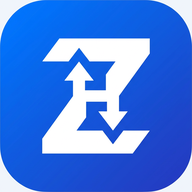
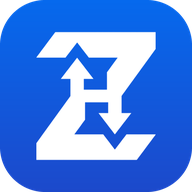
v29.7.2 — شروع یکپارچه روی اندروید: maskable تمامصفحه بدون باکس سفید + بَج اصلی در صفحهٔ لود و لوگوها

diff --git a/index.html b/index.html
@@ -33,7 +33,7 @@
   #bootSplash.done{opacity:0;pointer-events:none}
   #bootSplash::before{content:'';position:absolute;width:360px;height:360px;border-radius:50%;background:radial-gradient(circle,rgba(37,99,235,.38),rgba(37,99,235,0) 70%);animation:bsGlow 2.2s ease-in-out infinite}
   #bootSplash>*{position:relative}
-  #bootSplash svg{animation:bsPop .55s cubic-bezier(.2,.9,.3,1.25) both;filter:drop-shadow(0 10px 26px rgba(37,99,235,.45))}
+  #bootSplash .bs-logo{display:block;animation:bsPop .55s cubic-bezier(.2,.9,.3,1.25) both;filter:drop-shadow(0 10px 26px rgba(37,99,235,.45))}
   #bootSplash .bs-name{font-size:28px;font-weight:800;letter-spacing:.2px;animation:bsUp .5s .08s ease both}
   #bootSplash .bs-tag{font-size:13px;opacity:.72;animation:bsUp .5s .16s ease both}
   #bootSplash .bs-bar{width:136px;height:3px;border-radius:99px;background:rgba(232,238,250,.16);margin-top:16px;overflow:hidden;animation:bsUp .5s .24s ease both}
@@ -48,7 +48,7 @@
 </head>
 <body>
   <div id="bootSplash" role="status" aria-label="Z Lift">
-    <svg viewBox="0 0 32 32" width="72" height="72" aria-hidden="true"><rect width="32" height="32" rx="8" fill="#2563eb"/><path d="M10 8h12l-8 7h8L10 24l4-7h-6z" fill="#fff"/></svg>
+    <img class="bs-logo" src="icons/splash-logo.png" width="72" height="72" alt="" aria-hidden="true" fetchpriority="high" />
     <div class="bs-name">Z Lift</div>
     <div class="bs-tag">دستیار حرفهای تکنسین آسانسور</div>
     <div class="bs-bar" aria-hidden="true"><i></i></div>
@@ -60,7 +60,7 @@
     <div class="auth-card">
       <div class="auth-logo">
         <div class="logo-badge">
-          <svg viewBox="0 0 32 32" width="34" height="34"><rect width="32" height="32" rx="8" fill="var(--accent)"/><path d="M10 8h12l-8 7h8L10 24l4-7h-6z" fill="#fff"/></svg>
+          <img src="icons/splash-logo.png" width="34" height="34" alt="" aria-hidden="true" />
         </div>
         <h1>Z Lift</h1>
         <p data-i18n="tagline">دستیار حرفهای تکنسین آسانسور</p>
@@ -98,7 +98,7 @@
     <aside class="sidebar" id="sidebar">
       <div class="sidebar-head">
         <div class="logo-badge sm">
-          <svg viewBox="0 0 32 32" width="26" height="26"><rect width="32" height="32" rx="8" fill="var(--accent)"/><path d="M10 8h12l-8 7h8L10 24l4-7h-6z" fill="#fff"/></svg>
+          <img src="icons/splash-logo.png" width="26" height="26" alt="" aria-hidden="true" />
         </div>
         <div class="logo-text">
           <strong>Z Lift</strong>

diff --git a/qa/platform.js b/qa/platform.js
@@ -411,7 +411,7 @@ const storedPw = (A, u) => A.ev(`(_lsDB.users.find(x => x.username === '${u}') |
     const man = JSON.parse(readSrc('manifest.json'));
     const sizes = new Set((man.icons || []).map(i => i.sizes));
     const maskable = (man.icons || []).some(i => String(i.purpose || '').includes('maskable'));
-    const missing = (man.icons || []).map(i => i.src).filter(s => !fs.existsSync(path.join(ROOT, s)) || fs.statSync(path.join(ROOT, s)).size === 0);
+    const missing = (man.icons || []).map(i => String(i.src || '').split('?')[0]).filter(s => !fs.existsSync(path.join(ROOT, s)) || fs.statSync(path.join(ROOT, s)).size === 0);
     const ok = !!man.name && !!man.short_name && man.display === 'standalone' && man.start_url &&
       sizes.has('192x192') && sizes.has('512x512') && maskable && !missing.length;
     return ok ? OK('manifest installable, icons present')

diff --git a/sw.js b/sw.js
@@ -7,7 +7,7 @@
      (defensive only: Z Lift has no backend today — all data is local; this branch
      exists so a future optional sync endpoint keeps working offline)
    Bump CACHE on every release so old shells are evicted. */
-const CACHE = 'zlift-pwa-v45';
+const CACHE = 'zlift-pwa-v46';
 const CORE = [
   './',
   './index.html',
@@ -60,7 +60,8 @@ const CORE = [
   './js/components/jdate-picker.js',
   './icons/icon-192.png',
   './icons/icon-512.png',
-  './icons/maskable-512.png'
+  './icons/maskable-512.png',
+  './icons/splash-logo.png'
 ];
 const NAV_TIMEOUT = 4000;
 

diff --git a/js/core/app-core.js b/js/core/app-core.js
@@ -1,8 +1,8 @@
 /* ================= VERSION SINGLE SOURCE OF TRUTH ================= */
-var APP_VERSION = '29.7.1';
+var APP_VERSION = '29.7.2';
 var DB_SCHEMA_VERSION = 3;
 var BACKUP_FORMAT_VERSION = 8;
-var CACHE_VERSION = 'zlift-pwa-v45';
+var CACHE_VERSION = 'zlift-pwa-v46';
 /* Display badge shown on Settings / about */
 var APP_BUILD = '2026-10-30';
 

diff --git a/qa/build-icons.py b/qa/build-icons.py
@@ -1,0 +1,138 @@
+#!/usr/bin/env python3
+"""
+build-icons.py — regenerates every app icon from the master badge artwork.
+
+Source of truth: icons/src-badge-512.png (512x512: blue rounded badge with the
+white Z-arrows glyph, on an opaque off-white canvas — the original export).
+
+Why this exists: the shipped maskable icon used to be that same export pasted
+inset on a white canvas, so Android's own PWA launch screen (generated by
+Chrome from the manifest BEFORE any web code runs) showed the badge floating
+in an ugly white box. A real maskable icon must be full-bleed with the key
+glyph inside the central safe zone. The "any" icons also carried opaque
+off-white corners instead of transparency.
+
+Outputs (all derived from the one master, so every surface matches):
+  icons/maskable-512.png  full-bleed badge-blue gradient + glyph @ safe size
+  icons/icon-512.png      rounded badge, transparent corners (purpose: any)
+  icons/icon-192.png      same, 192px (also apple-touch-icon)
+  icons/splash-logo.png   216px badge used by the in-page boot splash, so the
+                          Chrome launch screen and our loading page show the
+                          SAME logo and read as one continuous screen
+
+Run:  python3 qa/build-icons.py     (needs Pillow; not part of npm/CI)
+After regenerating, bump the ?v= on manifest icon srcs + the SW cache so
+installed WebAPKs actually refetch the new artwork.
+"""
+from PIL import Image, ImageDraw
+import os
+
+ROOT = os.path.join(os.path.dirname(os.path.abspath(__file__)), '..')
+SRC = os.path.join(ROOT, 'icons', 'src-badge-512.png')
+SS = 4  # supersample factor for smooth masks
+
+
+def rounded_mask(size, radius):
+    """Anti-aliased rounded-rect alpha mask (L mode)."""
+    big = Image.new('L', (size * SS, size * SS), 0)
+    d = ImageDraw.Draw(big)
+    d.rounded_rectangle([0, 0, size * SS - 1, size * SS - 1], radius=radius * SS, fill=255)
+    return big.resize((size, size), Image.LANCZOS)
+
+
+def vertical_gradient(size, top, bottom):
+    grad = Image.new('RGB', (1, size))
+    for y in range(size):
+        t = y / (size - 1)
+        grad.putpixel((0, y), tuple(round(top[i] + (bottom[i] - top[i]) * t) for i in range(3)))
+    return grad.resize((size, size))
+
+
+def main():
+    src = Image.open(SRC).convert('RGB')
+    W = src.size[0]
+    assert src.size == (512, 512), src.size
+
+    # Badge blues sampled from the master (top / bottom of the badge face).
+    top_blue = src.getpixel((W // 2, int(W * 0.06)))
+    bot_blue = src.getpixel((W // 2, int(W * 0.95)))
+    print('badge gradient:', top_blue, '->', bot_blue)
+
+    # --- extract the white glyph as an alpha layer -------------------------
+    # Whiteness = min(r,g,b): badge blue is ~10, glyph is 255, the off-white
+    # corner fill is ~240 — so confine extraction to the badge's rounded
+    # shape (inset a touch) to keep the corners out.
+    px = src.load()
+    alpha = Image.new('L', (W, W), 0)
+    ap = alpha.load()
+    for y in range(W):
+        for x in range(W):
+            m = min(px[x, y])
+            a = (m - 40) / (235 - 40)
+            ap[x, y] = 0 if a <= 0 else 255 if a >= 1 else int(a * 255)
+    badge_area = rounded_mask(W, int(W * 0.235))
+    # shrink the allowed area slightly so badge-edge anti-aliasing stays out
+    inner = Image.new('L', (W, W), 0)
+    inset = 10
+    inner.paste(badge_area.crop((inset, inset, W - inset, W - inset)).resize((W - 2 * inset, W - 2 * inset)), (inset, inset))
+    alpha = Image.composite(alpha, Image.new('L', (W, W), 0), inner)
+
+    # The badge's own anti-aliased rim against the off-white canvas is ALSO
+    # near-white, so whiteness alone leaks a rim ghost. Keep only the white
+    # component connected to the image centre (the glyph), dilated a couple
+    # of px so the glyph's own soft edge ramp survives.
+    from PIL import ImageFilter
+    whiteish = [[min(px[x, y]) >= 170 for x in range(W)] for y in range(W)]
+    seen = [[False] * W for _ in range(W)]
+    stack = [(W // 2, W // 2)]
+    seen[W // 2][W // 2] = True
+    comp = Image.new('L', (W, W), 0)
+    cp = comp.load()
+    while stack:
+        x, y = stack.pop()
+        cp[x, y] = 255
+        for nx, ny in ((x + 1, y), (x - 1, y), (x, y + 1), (x, y - 1)):
+            if 0 <= nx < W and 0 <= ny < W and not seen[ny][nx] and whiteish[ny][nx]:
+                seen[ny][nx] = True
+                stack.append((nx, ny))
+    allowed = comp.filter(ImageFilter.MaxFilter(5))
+    alpha = Image.composite(alpha, Image.new('L', (W, W), 0), allowed)
+
+    bbox = alpha.point(lambda v: 255 if v > 127 else 0).getbbox()
+    glyph = Image.new('RGBA', (W, W), (255, 255, 255, 0))
+    glyph.putalpha(alpha)
+    glyph = glyph.crop(bbox)
+    gw, gh = glyph.size
+    print(f'glyph bbox in master: {gw}x{gh} ({gw / W:.0%} x {gh / W:.0%})')
+
+    def compose(glyph_width):
+        """Full-bleed gradient + centered glyph at the given px width."""
+        canvas = vertical_gradient(W, top_blue, bot_blue).convert('RGBA')
+        scale = glyph_width / gw
+        g = glyph.resize((glyph_width, round(gh * scale)), Image.LANCZOS)
+        canvas.alpha_composite(g, ((W - g.size[0]) // 2, (W - g.size[1]) // 2))
+        return canvas
+
+    def save(img, name):
+        path = os.path.join(ROOT, 'icons', name)
+        img.save(path, optimize=True)
+        print('wrote', path, img.size, f'{os.path.getsize(path) // 1024}KB')
+
+    # --- maskable: glyph tips must survive even a circular system mask ----
+    # Keep the Z's corner tips inside the 80%-diameter safe circle:
+    # half-diag of the glyph bbox <= 40% of canvas. 296px wide does it.
+    save(compose(296), 'maskable-512.png')
+
+    # --- "any" badge: fuller glyph, rounded corners, real transparency ----
+    badge = compose(318)
+    badge.putalpha(rounded_mask(W, int(W * 0.235)))
+    save(badge, 'icon-512.png')
+    save(badge.resize((192, 192), Image.LANCZOS), 'icon-192.png')
+
+    # --- boot-splash logo: the 72px badge at 3x ----------------------------
+    save(badge.resize((216, 216), Image.LANCZOS), 'splash-logo.png')
+    print('ICONS DONE')
+
+
+if __name__ == '__main__':
+    main()

diff --git a/CHANGELOG.md b/CHANGELOG.md
@@ -2,6 +2,13 @@
 
 قالب این سند از [Keep a Changelog](https://keepachangelog.com) پیروی میکند؛ تازهترین نسخه در بالاست.
 
+## [29.7.2] — 2026-10-30 — شروع یکپارچه روی اندروید
+
+- آیکون maskable تمامصفحه شد تا صفحهٔ شروع خودکار اندروید/کروم دیگر لوگو را داخل باکس سفید و کوچک نشان ندهد.
+- همان بَج اصلی اپ در صفحهٔ بارگذاری و لوگوهای داخل اپ استفاده میشود تا گذار از صفحهٔ شروع سیستم به صفحهٔ لود Z Lift یکدست و یکپارچه دیده شود.
+- آیکونهای معمولی گوشههای شفاف واقعی گرفتند و URL آیکونهای مانیفست نسخهدار شد تا گوشیهای نصبشده artwork تازه را دریافت کنند.
+- ابزار بازسازی آیکونها: `qa/build-icons.py` از روی `icons/src-badge-512.png`.
+
 ## [29.7.1] — 2026-10-30 — صفحهٔ بارگذاری محسوستر
 
 - صفحهٔ لود حالا انیمیشن ورود لوگو، هالهٔ نور پالسزن و **نوار پیشرفت** دارد و دستکم **۷۵۰ میلیثانیه** روی صفحه میماند تا واقعاً دیده شود (نسخهٔ قبلی روی دستگاههای سریع در کسری از ثانیه رد میشد و حس «همان قبلی» میداد).

diff --git a/README.md b/README.md
@@ -3,7 +3,7 @@
 **اپلیکیشن وب پیشرونده (PWA) و کاملاً آفلاین** برای تکنسینهای آسانسور: ساختمانهای چندآسانسوره، گزارش سرویس با عکس و امضا، چکلیست EN 81-20/50، عیبیابی تعاملی، محاسبات مهندسی، فاکتور و قرارداد، تقویم جلالی و پشتیبانگیری امن — بدون هیچ سرور یا بکاندی؛ همهٔ داده روی خودِ دستگاه میماند.
 
 [![CI](https://github.com/Zhakar-Ata/Z-Lift/actions/workflows/ci.yml/badge.svg)](https://github.com/Zhakar-Ata/Z-Lift/actions/workflows/ci.yml)
-· نسخهٔ `29.7.1` · فرمت بکاپ `v8` · طرح داده `v3` · فارسی/English · راستچین
+· نسخهٔ `29.7.2` · فرمت بکاپ `v8` · طرح داده `v3` · فارسی/English · راستچین
 
 <p>
   <img src="assets/store/shot-dashboard.png" width="230" alt="داشبورد امروز" />
